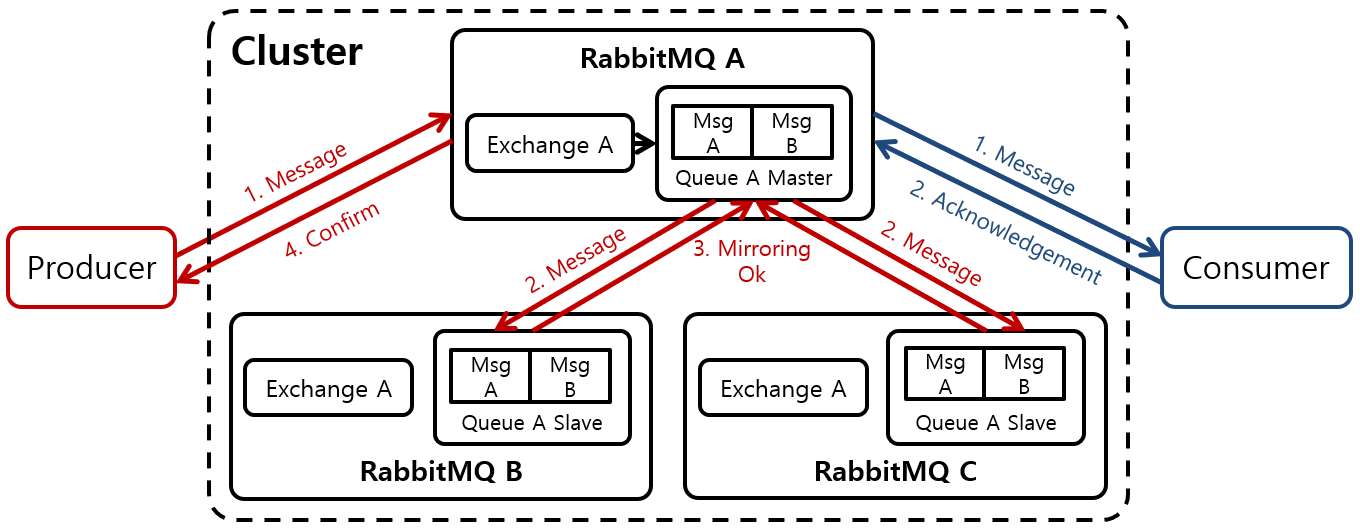
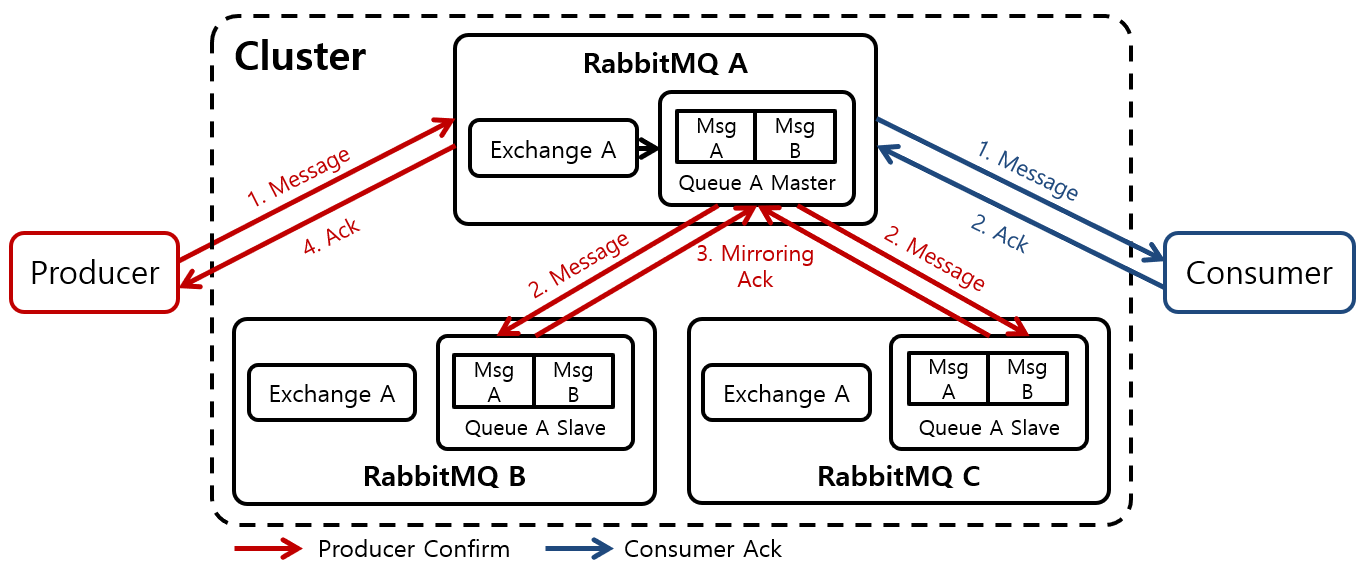
Update rabbitmq ack

Changed region(s): [[0.0, 0.0, 1.0, 0.9925], [0.8029, 0.1805, 0.8338, 0.2105]]

diff --git a/_docs/theory_analysis/RabbitMQ_Ack.md b/_docs/theory_analysis/RabbitMQ_Ack.md
@@ -11,11 +11,11 @@ RabbitMQ의 Ack를 분석한다.
 
 ### 1. RabbitMQ Ack
 
-![]({{site.baseurl}}/images/theory_analysis/RabbitMQ_Ack/RabbitMQ_Ack.PNG){: width="700px"}
+![]({{site.baseurl}}/images/theory_analysis/RabbitMQ_Ack/RabbitMQ_Ack.PNG){: width="750px"}
 
-RabbitMQ는 Producer와 Consumer 사이의 Message 전달을 보장하기 위한 기법으로 Ack를 제공한다. [그림 1]은 RabbitMQ의 Ack 과정을 나타내고 있다.
+RabbitMQ는 Producer와 Consumer 사이의 Message 전달을 보장하기 위한 기법으로 Ack를 제공한다. [그림 1]은 RabbitMQ의 Ack 과정을 나타내고 있다. RabbitMQ에서는 Producer가 RabbitMQ에게 Message를 전송한 다음 RabbitMQ으로부터 Ack를 받는 기법을 **Producer Confirm**이라고 명칭한다. 이와 유사하게 RabbitMQ에서는 RabbitMQ가 Consumer에게 Message를 전송한 다음 Consumer으로부터 Ack를 받는 기법을 **Consumer Acknowledgement**라고 표현한다.
 
-#### 1.1. Producer Confirms
+#### 1.1. Producer Confirm
 
 #### 1.2. Consumer Acknowledgement
 
